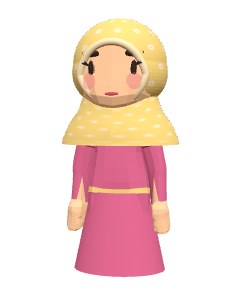
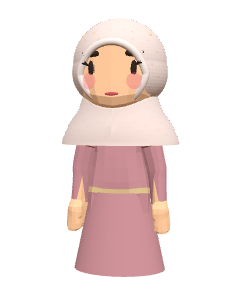
The covered girl in colours that go together: a petrol-blue tunic with a camel scarf, a teal dress with dusty rose, a dusty-rose dress with blush, a charcoal sports scarf, cream with sage, sand with sky blue; a quiet, fine print on the scarves. The site on an iPhone or iPad: no store buttons (Google

Changed region(s): [[0.2625, 0.06, 0.7583, 0.93]]

diff --git a/site/index.html b/site/index.html
@@ -64,6 +64,9 @@ h1,h2,h3{font-family:var(--display);text-wrap:balance;margin:0;line-height:1.12}
 .store.web{background:var(--gold);color:var(--night);box-shadow:0 8px 24px rgba(242,182,48,.35)}
 .store.ios{background:rgba(255,255,255,.08);color:#fff;border:1.5px dashed rgba(255,255,255,.45);cursor:default}
 .store.ios:hover{transform:none}
+/* iPhone / iPad: no stores to send them to (no iPhone app yet, Google Play is no use) — just "play in the browser" */
+html.ios-device .store.play,html.ios-device .store.ios{display:none}
+html.ios-device .store.web{min-height:68px;padding:12px 28px 12px 20px}html.ios-device .store.web b{font-size:24px}
 .soon{font:800 10px var(--body);letter-spacing:.08em;text-transform:uppercase;background:var(--turq);color:#fff;border-radius:999px;padding:3px 8px;margin-inline-start:4px;align-self:center}
 
 /* the phrase card: lines from the game, meaning in your language */
@@ -291,7 +294,7 @@ const T = {
     's2.t': 'Söyle', 's2.p': 'Cümleyi yüksek sesle söylersin. Rakamla bile söylesen anlar: “10” da olur, “on” da.',
     's3.t': 'Kur', 's3.p': 'Parçaları doğru sıraya dizersin. İki kez takılırsan doğru parça parlar.',
     'lang.title': 'Anlamı senin dilinde', 'lang.lead': 'Her Türkçe cümlenin altında, seçtiğin dilde anlamı. Yeni kelimeler kendiliğinden defterine eklenir.',
-    'final.title': 'Köy seni bekliyor', 'final.lead': 'Android’de indir ya da hemen tarayıcında oyna. iPhone sürümü yolda.',
+    'final.title': 'Köy seni bekliyor', 'final.lead': 'Android’de indir ya da hemen tarayıcında oyna. iPhone sürümü yolda.', 'final.ios': 'Hemen tarayıcında oyna, kurulum yok. İpucu: Safari’de Paylaş → “Ana Ekrana Ekle” dersen uygulama gibi açılır.',
     privacy: 'Gizlilik politikası',
   },
   en: {
@@ -311,7 +314,7 @@ const T = {
     's2.t': 'Say it', 's2.p': 'You say the sentence out loud. Even with digits it understands: “10” works as well as “on”.',
     's3.t': 'Build it', 's3.p': 'Put the pieces in the right order. Stuck twice? The right piece lights up.',
     'lang.title': 'The meaning, in your language', 'lang.lead': 'Under every Turkish line, its meaning in the language you pick. New words go into your notebook by themselves.',
-    'final.title': 'The village is waiting', 'final.lead': 'Download it on Android or play right now in your browser. The iPhone version is on its way.',
+    'final.title': 'The village is waiting', 'final.lead': 'Download it on Android or play right now in your browser. The iPhone version is on its way.', 'final.ios': 'Play right now in your browser, nothing to install. Tip: in Safari tap Share → “Add to Home Screen” and it opens like an app.',
     privacy: 'Privacy policy',
   },
   ar: {
@@ -331,7 +334,7 @@ const T = {
     's2.t': 'قُلها', 's2.p': 'تقول الجملة بصوت عالٍ. تفهمك حتى بالأرقام: «10» مثل «on».',
     's3.t': 'رتّبها', 's3.p': 'رتّب القطع بالترتيب الصحيح. إن تعثّرت مرتين تضيء القطعة الصحيحة.',
     'lang.title': 'المعنى بلغتك', 'lang.lead': 'تحت كل جملة تركية معناها باللغة التي تختارها. وتُضاف الكلمات الجديدة إلى دفترك تلقائيًا.',
-    'final.title': 'القرية بانتظارك', 'final.lead': 'نزّلها على أندرويد أو العب الآن في متصفحك. نسخة iPhone في الطريق.',
+    'final.title': 'القرية بانتظارك', 'final.lead': 'نزّلها على أندرويد أو العب الآن في متصفحك. نسخة iPhone في الطريق.', 'final.ios': 'العب الآن في متصفحك، بلا تثبيت. نصيحة: في Safari اضغط مشاركة ← «إضافة إلى الشاشة الرئيسية» فتفتح مثل التطبيق.',
     privacy: 'سياسة الخصوصية',
   },
   ur: {
@@ -351,7 +354,7 @@ const T = {
     's2.t': 'بولیں', 's2.p': 'آپ جملہ اونچی آواز میں بولتے ہیں۔ ہندسوں میں بھی سمجھتا ہے: «10» بھی چلے گا اور «on» بھی۔',
     's3.t': 'جوڑیں', 's3.p': 'ٹکڑوں کو صحیح ترتیب میں رکھیں۔ دو بار اٹکیں تو صحیح ٹکڑا چمکتا ہے۔',
     'lang.title': 'مطلب آپ کی زبان میں', 'lang.lead': 'ہر ترکی جملے کے نیچے آپ کی چنی ہوئی زبان میں اس کا مطلب۔ نئے الفاظ خود بخود آپ کی کاپی میں چلے جاتے ہیں۔',
-    'final.title': 'گاؤں آپ کا منتظر ہے', 'final.lead': 'اینڈرائیڈ پر ڈاؤن لوڈ کریں یا ابھی اپنے براؤزر میں کھیلیں۔ iPhone ورژن راستے میں ہے۔',
+    'final.title': 'گاؤں آپ کا منتظر ہے', 'final.lead': 'اینڈرائیڈ پر ڈاؤن لوڈ کریں یا ابھی اپنے براؤزر میں کھیلیں۔ iPhone ورژن راستے میں ہے۔', 'final.ios': 'ابھی اپنے براؤزر میں کھیلیں، انسٹال کی ضرورت نہیں۔ مشورہ: Safari میں شیئر ← «ہوم اسکرین میں شامل کریں» دبائیں تو یہ ایپ کی طرح کھلے گا۔',
     privacy: 'رازداری کی پالیسی',
   },
   es: {
@@ -371,7 +374,7 @@ const T = {
     's2.t': 'Dilo', 's2.p': 'Dices la frase en voz alta. Te entiende incluso con cifras: «10» vale igual que «on».',
     's3.t': 'Constrúyela', 's3.p': 'Ordena las piezas. ¿Te atascas dos veces? La pieza correcta se ilumina.',
     'lang.title': 'El significado, en tu idioma', 'lang.lead': 'Debajo de cada frase en turco, su significado en el idioma que elijas. Las palabras nuevas pasan solas a tu cuaderno.',
-    'final.title': 'El pueblo te espera', 'final.lead': 'Descárgalo en Android o juega ahora mismo en tu navegador. La versión para iPhone está en camino.',
+    'final.title': 'El pueblo te espera', 'final.lead': 'Descárgalo en Android o juega ahora mismo en tu navegador. La versión para iPhone está en camino.', 'final.ios': 'Juega ahora mismo en tu navegador, sin instalar nada. Consejo: en Safari pulsa Compartir → «Añadir a pantalla de inicio» y se abre como una app.',
     privacy: 'Política de privacidad',
   },
   fr: {
@@ -391,7 +394,7 @@ const T = {
     's2.t': 'Dis-le', 's2.p': 'Tu dis la phrase à voix haute. Il comprend même les chiffres : « 10 » marche aussi bien que « on ».',
     's3.t': 'Construis-la', 's3.p': 'Remets les morceaux dans l’ordre. Bloqué deux fois ? Le bon morceau s’allume.',
     'lang.title': 'Le sens, dans ta langue', 'lang.lead': 'Sous chaque phrase turque, son sens dans la langue que tu choisis. Les nouveaux mots rejoignent ton carnet tout seuls.',
-    'final.title': 'Le village t’attend', 'final.lead': 'Télécharge-le sur Android ou joue tout de suite dans ton navigateur. La version iPhone arrive.',
+    'final.title': 'Le village t’attend', 'final.lead': 'Télécharge-le sur Android ou joue tout de suite dans ton navigateur. La version iPhone arrive.', 'final.ios': 'Joue tout de suite dans ton navigateur, rien à installer. Astuce : dans Safari, touche Partager → « Sur l’écran d’accueil » et il s’ouvre comme une appli.',
     privacy: 'Politique de confidentialité',
   },
 };
@@ -411,6 +414,10 @@ const PHRASES = [
 const pick = () => { try { const s = localStorage.getItem('aa-lang'); if (T[s]) return s; } catch {} const n = (navigator.language || 'tr').slice(0, 2); return T[n] ? n : 'en'; };
 let lang = pick(), idx = 0;
 
+/** iPhone / iPad (an iPad says it is a Mac, but has a touch screen): no store buttons, only the browser game. */
+const IOS = /iPhone|iPad|iPod/.test(navigator.userAgent) || (navigator.platform === 'MacIntel' && navigator.maxTouchPoints > 1);
+if (IOS) document.documentElement.classList.add('ios-device');
+
 function apply() {
   const t = T[lang], root = document.documentElement;
   root.lang = lang; root.dir = lang === 'ar' || lang === 'ur' ? 'rtl' : 'ltr';
@@ -418,6 +425,7 @@ function apply() {
   document.querySelectorAll('.langs button').forEach((b) => b.setAttribute('aria-pressed', String(b.dataset.lang === lang)));
   document.querySelectorAll('.store.web').forEach((a) => { a.href = `/oyun/${lang}/`; }); // the game, with the meanings in the site's language
   document.getElementById('final-ctas').innerHTML = document.querySelector('.hero .ctas').innerHTML;
+  if (IOS) document.querySelector('[data-t="final.lead"]').textContent = t['final.ios'];
   phrase(false);
 }
 

diff --git a/web/src/entities/hdClothes.js b/web/src/entities/hdClothes.js
@@ -3,28 +3,28 @@ import * as THREE from 'three';
 /** Matching colours for each outfit (the pack's own purple and navy clashed). `scarf` = the headscarf with it. */
 const PALETTE = {
   'casual.boy': { Shirt: 0x3E7C8C, Pants: 0xA68B5B, Belt: 0x4A3020 },             // teal shirt, khaki trousers
-  'casual.girl': { Shirt: 0xC07A68, Pants: 0x5C4A42, Belt: 0x4A3020, scarf: 0xE7A1B0 }, // terracotta, warm brown, a pink scarf
-  'dress.girl': { Shirt: 0x3F7F73, Pants: 0x3F7F73, Belt: 0xB08A4E, scarf: 0xF0CF6E }, // a teal dress with a tan belt, a soft yellow scarf
+  'casual.girl': { Shirt: 0x2F5D73, Pants: 0x3A3634, Belt: 0x7A5C44, scarf: 0xCDB08A }, // a petrol-blue tunic, dark taupe, a camel scarf
+  'dress.girl': { Shirt: 0x3F7F73, Pants: 0x3F7F73, Belt: 0xB08A4E, scarf: 0xD6A9A1 }, // a teal dress with a tan belt, a dusty-rose scarf
   'suit.boy': { Black: 0x2B3448 },                                                    // a navy suit
   'curly.boy': { Shirt: 0xB5523F, Pants: 0x3F4A5A, Belt: 0x2E2218 },                // Hakan: brick red, slate trousers
   'brown.girl': { Shirt: 0xD9A23E, Pants: 0x2E5E8C, Belt: 0x4A3020, scarf: 0x9C7BC0 }, // Seher: mustard, denim blue, a lilac scarf
   // the shop's other outfits: the same bodies in other clothes
-  'dress2.girl': { Shirt: 0xD9638C, Pants: 0xD9638C, Belt: 0xF2D27A, scarf: 0xF2D27A },    // a pink dress with a golden belt and scarf
+  'dress2.girl': { Shirt: 0xC48B93, Pants: 0xC48B93, Belt: 0xD8C08A, scarf: 0xEAD8D2 },    // a dusty-rose dress, a champagne belt, a blush scarf
   'sport.boy': { Shirt: 0x22356B, Pants: 0x22356B, Belt: 0xFFFFFF },                     // a navy tracksuit (eşofman), white waistband
-  'sport.girl': { Shirt: 0xC94F7C, Pants: 0xC94F7C, Belt: 0xFFFFFF, scarf: 0x2E3A5C },    // a raspberry tracksuit, a navy scarf
+  'sport.girl': { Shirt: 0xB84A6E, Pants: 0xB84A6E, Belt: 0xFFFFFF, scarf: 0x2E2E34 },    // a raspberry tracksuit, a charcoal sports scarf
   'jersey.boy': { Shirt: 0xC8102E, Pants: 0x1B1B1B, Belt: 0xF5C518 },                    // a red football shirt, black shorts' colour
   'jersey.girl': { Shirt: 0xF5C518, Pants: 0x1F2A5A, Belt: 0x1F2A5A, scarf: 0x1F2A5A },   // yellow and navy
   'sweater.boy': { Shirt: 0x7A1F2B, Pants: 0x2E4A6B, Belt: 0x3B2A20 },                   // a burgundy jumper, jeans
-  'sweater.girl': { Shirt: 0x5E8C6A, Pants: 0x3B3F55, Belt: 0x3B2A20, scarf: 0xE9D8B4 },  // a sage-green jumper, a cream scarf
+  'sweater.girl': { Shirt: 0x5E8C6A, Pants: 0x3E3A36, Belt: 0x3B2A20, scarf: 0xE9DCC6 },  // a sage-green jumper, taupe, a cream scarf
   'summer.boy': { Shirt: 0xF3F3F3, Pants: 0xD8C3A0, Belt: 0x8A6A44 },                    // a white shirt, light chinos
-  'summer.girl': { Shirt: 0x8EC5E8, Pants: 0xF3F3F3, Belt: 0xD9A23E, scarf: 0x8EC5E8 },   // sky blue and white
+  'summer.girl': { Shirt: 0x8EC5E8, Pants: 0xEDE7DC, Belt: 0xC9A66B, scarf: 0xF1E7D3 },   // sky blue, off-white, a sand scarf
 };
 
 /** Paints the HD model in its outfit's colours; returns the headscarf colour that goes with it. */
 export function paintOutfit(scene, outfit, gender) {
   const p = { Face: 0x2A1D17, ...PALETTE[`${outfit}.${gender === 'girl' ? 'girl' : 'boy'}`] }; // Face: eyes and eyebrows (the converted files made them white)
   scene.traverse((o) => { if (o.isMesh) for (const m of [o.material].flat()) if (p[m.name] != null) m.color.setHex(p[m.name]); });
-  return p.scarf ?? 0xE7A1B0;
+  return p.scarf ?? 0xCDB08A;
 }
 
 /**
@@ -34,7 +34,7 @@ export function paintOutfit(scene, outfit, gender) {
  * over the shoulders. Sized from the head's skin, then fixed to the head bone so it follows the
  * animation. The model's hair should already be hidden.
  */
-export function addHeadscarf(scene, holder, color = 0xE7A1B0) {
+export function addHeadscarf(scene, holder, color = 0xCDB08A) {
   const head = scene.getObjectByName('Head');
   if (!head) return;
   holder.updateMatrixWorld(true);
@@ -104,22 +104,23 @@ export function addHeadscarf(scene, holder, color = 0xE7A1B0) {
   return parts;
 }
 
-/** The scarf's cloth: its colour with a small flower print (one texture per colour). */
+/** The scarf's cloth: its colour with a fine, quiet print of small flowers (one texture per colour). */
 const prints = new Map();
 function scarfPrint(color) {
   if (prints.has(color) || typeof document === 'undefined') return prints.get(color) ?? null;
   const cv = document.createElement('canvas'); cv.width = cv.height = 128;
   const g = cv.getContext('2d'), base = new THREE.Color(color);
   g.fillStyle = `#${base.getHexString()}`; g.fillRect(0, 0, 128, 128);
-  const light = `#${base.clone().lerp(new THREE.Color(0xffffff), 0.55).getHexString()}`, dark = `#${base.clone().multiplyScalar(0.72).getHexString()}`;
+  const dark = base.getHSL({}).l > 0.5; // light cloth: a slightly darker print; dark cloth: a slightly lighter one
+  const tint = (k) => `#${base.clone().lerp(new THREE.Color(dark ? 0x000000 : 0xffffff), k).getHexString()}`;
   for (let i = 0; i < 4; i++) for (let j = 0; j < 4; j++) { // little five-petal flowers, every other row shifted
     const x = i * 32 + (j % 2) * 16 + 8, y = j * 32 + 8;
-    g.fillStyle = light;
-    for (let k = 0; k < 5; k++) { const a = k * Math.PI * 0.4; g.beginPath(); g.arc(x + Math.cos(a) * 3.2, y + Math.sin(a) * 3.2, 2.4, 0, Math.PI * 2); g.fill(); }
-    g.fillStyle = dark; g.beginPath(); g.arc(x, y, 1.6, 0, Math.PI * 2); g.fill();
+    g.fillStyle = tint(0.1);
+    for (let k = 0; k < 5; k++) { const a = k * Math.PI * 0.4; g.beginPath(); g.arc(x + Math.cos(a) * 2.2, y + Math.sin(a) * 2.2, 1.6, 0, Math.PI * 2); g.fill(); }
+    g.fillStyle = tint(0.18); g.beginPath(); g.arc(x, y, 1, 0, Math.PI * 2); g.fill();
   }
   const t = new THREE.CanvasTexture(cv);
-  t.colorSpace = THREE.SRGBColorSpace; t.wrapS = t.wrapT = THREE.RepeatWrapping; t.repeat.set(3, 2);
+  t.colorSpace = THREE.SRGBColorSpace; t.wrapS = t.wrapT = THREE.RepeatWrapping; t.repeat.set(4, 3);
   prints.set(color, t);
   return t;
 }

diff --git a/web/src/content/characters.js b/web/src/content/characters.js
@@ -29,7 +29,7 @@ export const VOICES = {
 const kidFace = (bg, skin, hair, extra = '') => `<svg width="52" height="52" viewBox="0 0 64 64"><circle cx="32" cy="32" r="32" fill="${bg}"/>${extra}<circle cx="32" cy="36" r="14" fill="${skin}"/><path d="M18 33c1-9 7-13 14-13s13 4 14 13c-4-4-9-5-14-5s-10 1-14 5z" fill="${hair}"/><circle cx="27" cy="37" r="2" fill="#1B2440"/><circle cx="37" cy="37" r="2" fill="#1B2440"/><path d="M28 43q4 3 8 0" stroke="#B83A5A" stroke-width="2" fill="none" stroke-linecap="round"/></svg>`;
 /** Portrait in a headscarf: face open, hair covered. */
 const hijabFace = (bg, skin, scarf, { glasses = false, edge = 'rgba(0,0,0,.18)' } = {}) => `<svg width="52" height="52" viewBox="0 0 64 64"><circle cx="32" cy="32" r="32" fill="${bg}"/><path d="M11 60C11 28 19 13 32 13s21 15 21 47z" fill="${scarf}"/><ellipse cx="32" cy="37" rx="11" ry="12.5" fill="${skin}"/><path d="M20.5 33q2-11 11.5-11t11.5 11" fill="none" stroke="${edge}" stroke-width="2"/><circle cx="27.5" cy="37" r="2" fill="#1B2440"/><circle cx="36.5" cy="37" r="2" fill="#1B2440"/>${glasses ? '<circle cx="27.5" cy="37" r="4.3" fill="none" stroke="#1B2440" stroke-width="1.6"/><circle cx="36.5" cy="37" r="4.3" fill="none" stroke="#1B2440" stroke-width="1.6"/><path d="M31.8 37h0.4" stroke="#1B2440" stroke-width="1.6"/>' : ''}<path d="M28.5 43q3.5 3 7 0" stroke="#B83A5A" stroke-width="2" fill="none" stroke-linecap="round"/></svg>`;
-export const PLAYER_FACE_GIRL = hijabFace('#F7C6D6', '#F2C49B', '#9B59B6');
+export const PLAYER_FACE_GIRL = hijabFace('#CFE0E8', '#F2C49B', '#CDB08A');
 /** The teacher when the random pick is a man. */
 export const TEACHER_MAN = {
   look: { shirt: 0xDCE6F0, vest: 0x34495E, pants: 0x2A2F3A, skin: 0xE9B98F, hair: 0x2B1D14, mustache: 0x2B1D14, glasses: true },
@@ -37,7 +37,7 @@ export const TEACHER_MAN = {
 };
 export const PLAYER_LOOK = { shirt: 0xFFC845, pants: 0x2F6FDB, skin: 0xF2C49B, hair: 0x5B3A29, scale: 0.78, props: ['jacket'] };
 /** Sare in a long skirt; `homeUncovered`: the headscarf comes off at home and goes on outside. */
-export const PLAYER_LOOK_GIRL = { shirt: 0xE86A92, skirt: 0x7A3552, pants: 0x3A3F66, skin: 0xF2C49B, hair: 0x6B4226, bun: true, headscarf: 0x9B59B6, homeUncovered: true, scale: 0.76, props: ['jacket'] };
+export const PLAYER_LOOK_GIRL = { shirt: 0x2F5D73, skirt: 0x3A3634, pants: 0x3A3634, skin: 0xF2C49B, hair: 0x6B4226, bun: true, headscarf: 0xCDB08A, homeUncovered: true, scale: 0.76, props: ['jacket'] };
 /** The four characters on the setup screen: boy modest / strong, girl covered / open. */
 export const PLAYER_LOOKS = {
   'boy-modest': PLAYER_LOOK,
